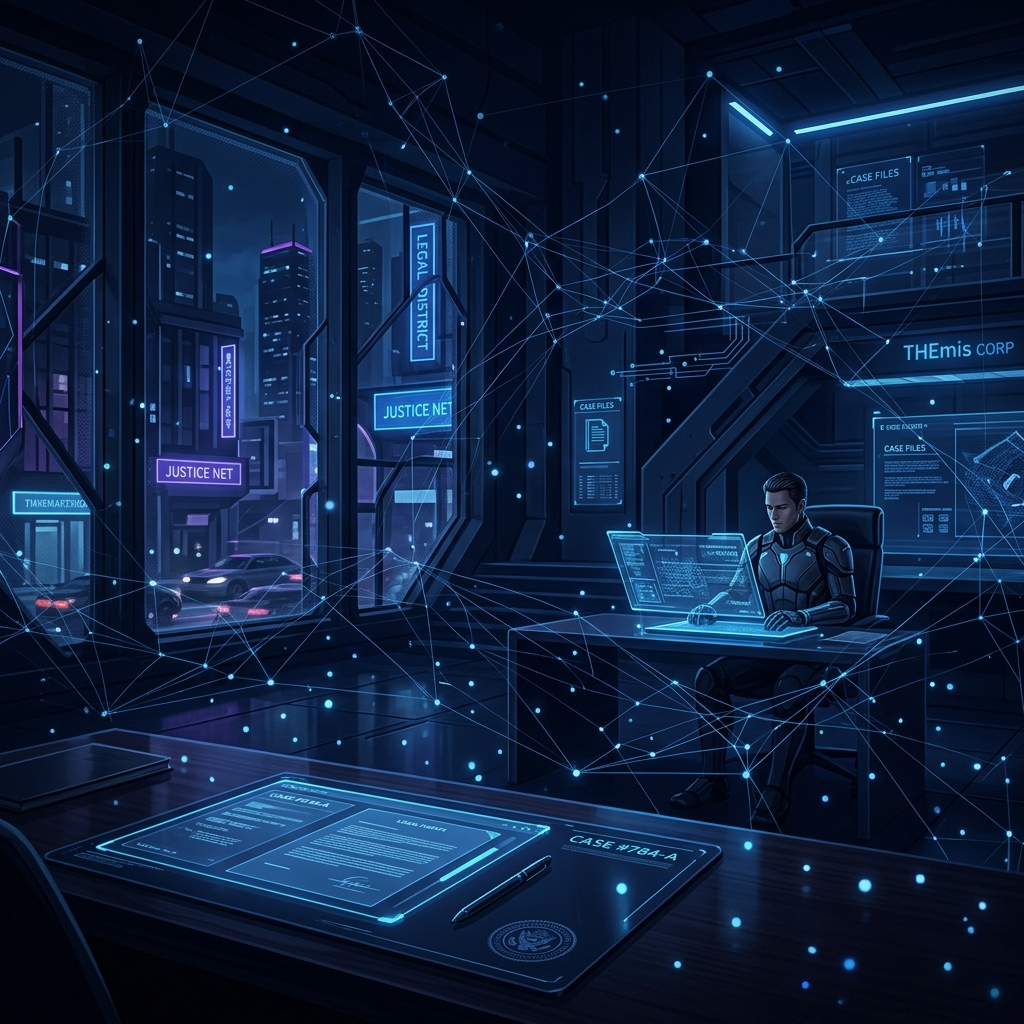
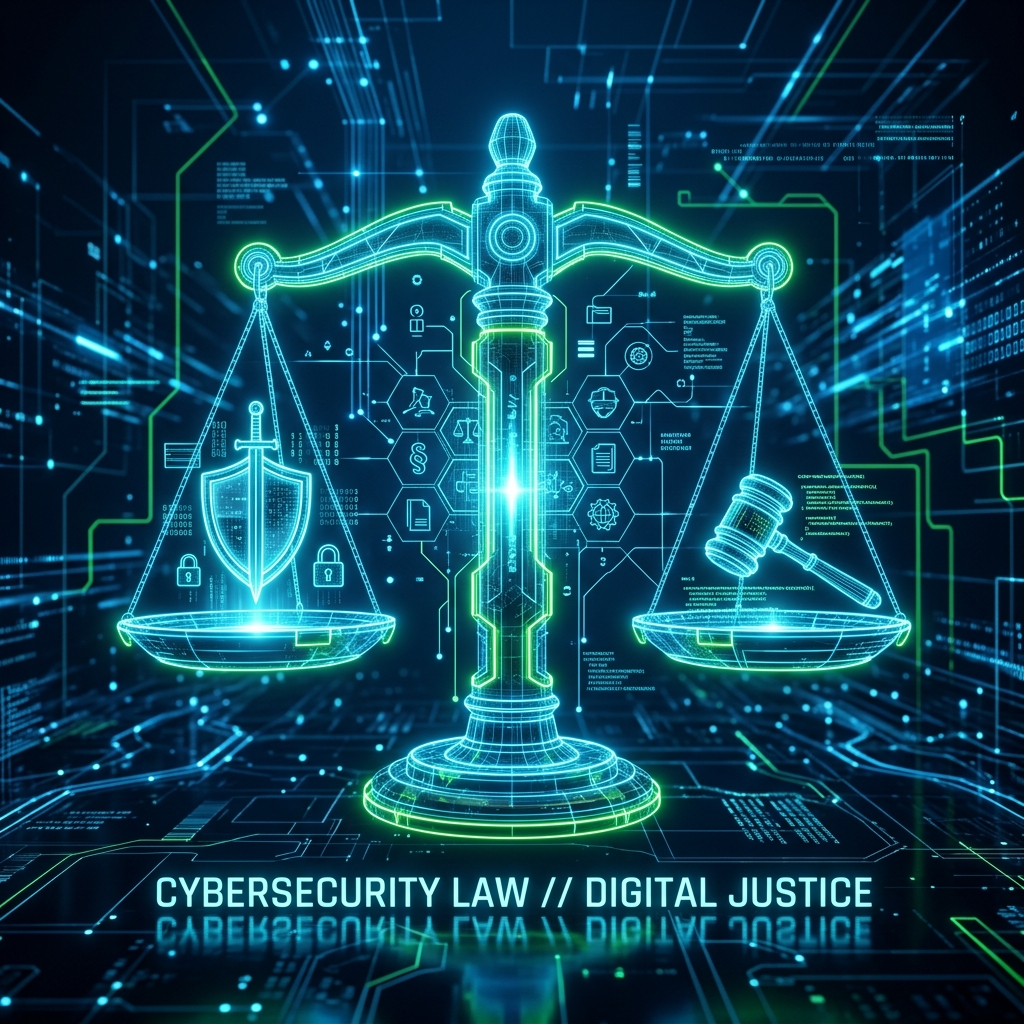
feat: re-structure hero section, use scales of justice background and adjust opacity and margins

diff --git a/js/main.js b/js/main.js
@@ -286,21 +286,7 @@ function throttle(func, limit) {
    Hero Video/Image Fallback
    ======================================== */
 function initHeroVideoFallback() {
-    // 1. Balanza de la justicia hero video
-    const video = document.getElementById('hero-video');
-    const image = document.getElementById('hero-image');
-    if (video && image) {
-        // If the video can play, display it and hide the fallback image
-        video.addEventListener('canplay', function() {
-            video.style.display = 'block';
-            image.style.display = 'none';
-        });
-        
-        // Explicitly trigger load check
-        video.load();
-    }
-
-    // 2. Video de fondo del hero
+    // Video de fondo del hero
     const bgVideo = document.getElementById('hero-bg-video');
     const bgImage = document.getElementById('hero-bg-image');
     if (bgVideo && bgImage) {

diff --git a/index.html b/index.html
@@ -70,12 +70,7 @@
                     <span>Ver Áreas</span>
                 </a>
             </div>
-            <div class="hero-media-container" id="media-container">
-                <video autoplay loop muted playsinline class="hero-video" id="hero-video" style="display: none;">
-                    <source src="assets/justice_loop.mp4" type="video/mp4">
-                </video>
-                <img src="assets/justice_scales.png" alt="Balanza de la Justicia Digital" class="hero-image" id="hero-image">
-            </div>
+
         </div>
         <div class="hero-scroll">
             <a href="#confianza" class="scroll-indicator">

diff --git a/css/styles.css b/css/styles.css
@@ -204,7 +204,7 @@ ul {
     height: 100%;
     object-fit: cover;
     z-index: 0;
-    opacity: 0.35;
+    opacity: 0.25;
 }
 
 .hero-bg-image {
@@ -215,7 +215,7 @@ ul {
     background-size: cover;
     background-position: center;
     z-index: 0;
-    opacity: 0.35;
+    opacity: 0.25;
 }
 
 .hero-bg-overlay {
@@ -308,7 +308,7 @@ ul {
     gap: 16px;
     justify-content: center;
     flex-wrap: wrap;
-    margin-bottom: 60px;
+    margin-bottom: 0;
 }
 
 /* Buttons */